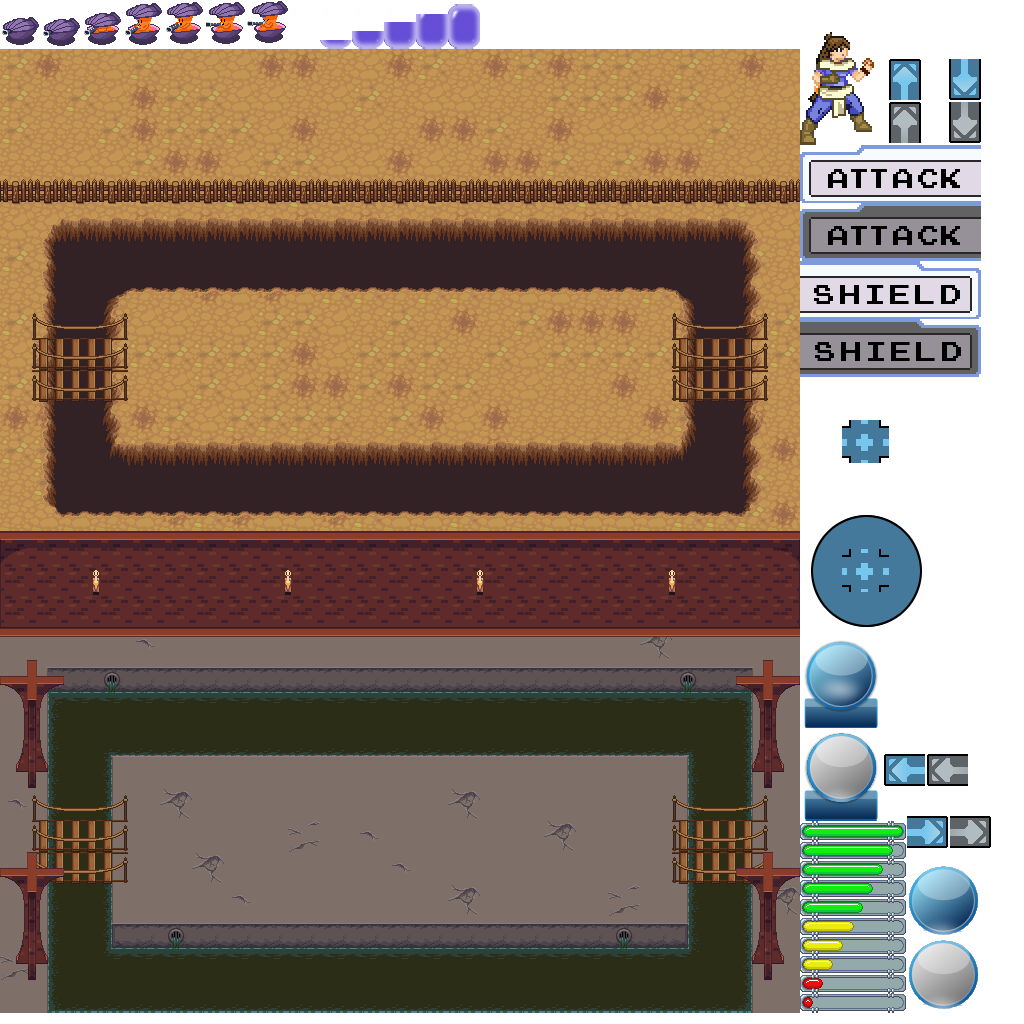
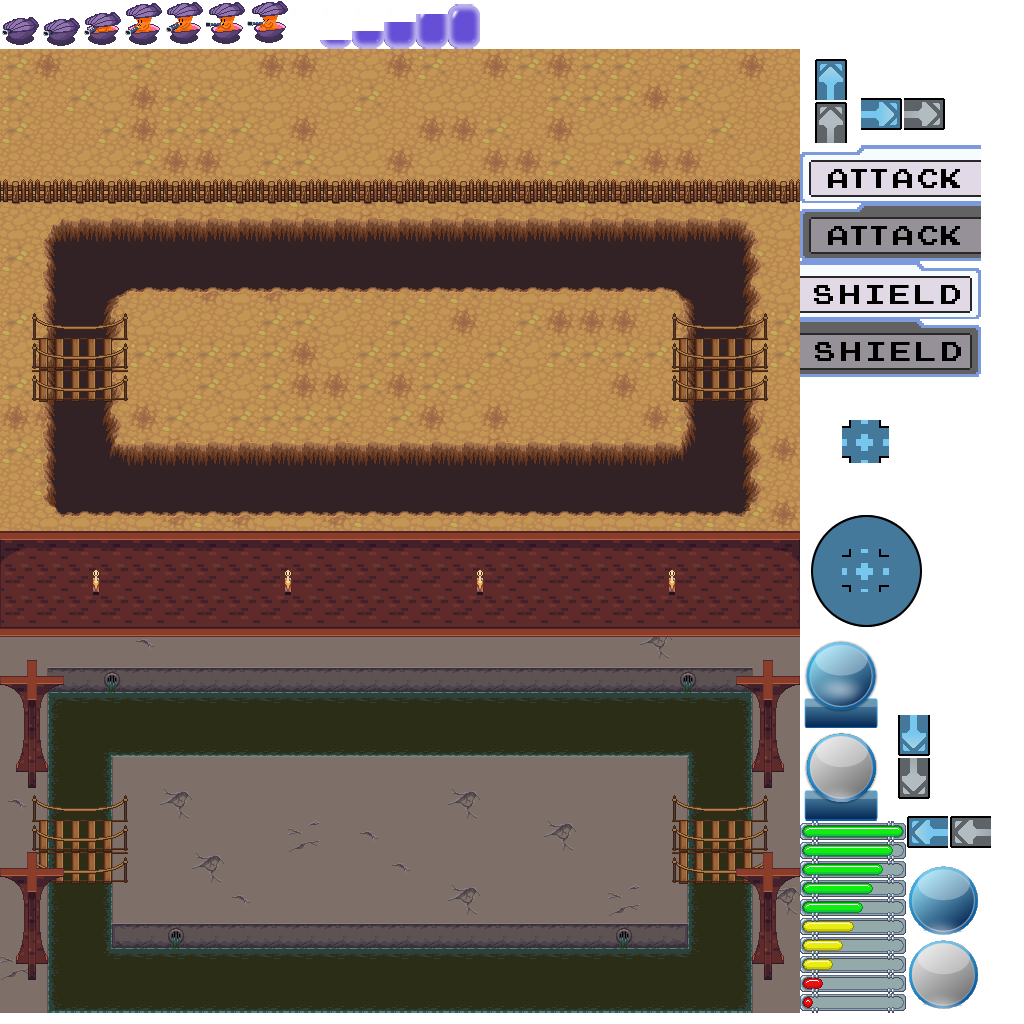
You can now hold your shield and it will drain your mana. Your character pose changes slightly

Changed region(s): [[0.7812, 0.0312, 0.9688, 0.1562], [0.8438, 0.6875, 0.9688, 0.8438]]

diff --git a/Unsealed/src/net/k3rnel/unsealed/objects/BattleHUD.java b/Unsealed/src/net/k3rnel/unsealed/objects/BattleHUD.java
@@ -1,9 +1,6 @@
 package net.k3rnel.unsealed.objects;
 
-import java.util.Arrays;
 import java.util.Random;
-
-import net.k3rnel.unsealed.Unsealed;
 
 import com.badlogic.gdx.Gdx;
 import com.badlogic.gdx.graphics.g2d.Animation;
@@ -16,7 +13,6 @@ import com.badlogic.gdx.scenes.scene2d.Stage;
 import com.badlogic.gdx.scenes.scene2d.ui.Button;
 import com.badlogic.gdx.scenes.scene2d.ui.Image;
 import com.badlogic.gdx.scenes.scene2d.ui.ImageButton;
-import com.badlogic.gdx.scenes.scene2d.utils.ClickListener;
 import com.badlogic.gdx.scenes.scene2d.utils.PressedListener;
 import com.badlogic.gdx.utils.Timer;
 import com.badlogic.gdx.utils.Timer.Task;
@@ -87,11 +83,16 @@ public class BattleHUD extends Stage {
         grid = new boolean[3][6];
 
         hero = new BattleCharacter();
-        Animation waiting = new Animation(1f, atlas.findRegion("battle/lidia"));
+        atlasRegion = atlas.findRegion("battle/lidia");
+        TextureRegion[][] lidia = atlasRegion.split(112,134);
+        Animation waiting = new Animation(1f, lidia[0][0]);
         waiting.setPlayMode(Animation.NORMAL);
         hero.animations.put("waiting", waiting);
+        Animation blocking = new Animation(1f,lidia[0][1]);
+        blocking.setPlayMode(Animation.NORMAL);
+        hero.animations.put("blocking",blocking);
         hero.setState(0);
-        hero.setPosition(230,150);
+        hero.setPosition(220,150);
         this.addActor(hero);
         grid[1][1] = true;
 
@@ -110,8 +111,14 @@ public class BattleHUD extends Stage {
             @Override
             public boolean touchDown(ActorEvent event, float x, float y, int pointer, int button) {
                  super.touchDown(event, x, y, pointer, button);
-                 buttonPress(4); 
+                 buttonPress(4,true); 
                  return true;
+            }
+            
+            @Override
+            public void touchUp(ActorEvent event, float x, float y, int pointer, int button) {
+                super.touchUp(event, x, y, pointer, button);
+                buttonPress(4,false); 
             }
         });
         this.addActor(leftTrigger);
@@ -124,7 +131,7 @@ public class BattleHUD extends Stage {
             @Override
             public boolean touchDown(ActorEvent event, float x, float y, int pointer, int button) {
                  super.touchDown(event, x, y, pointer, button);
-                 buttonPress(5); 
+                 buttonPress(5,true); 
                  return true;
             }
         });
@@ -170,7 +177,7 @@ public class BattleHUD extends Stage {
             @Override
             public boolean touchDown(ActorEvent event, float x, float y, int pointer, int button) {
                  super.touchDown(event, x, y, pointer, button);
-                 buttonPress(1); 
+                 buttonPress(1,true); 
                  return true;
             }
         });
@@ -184,7 +191,7 @@ public class BattleHUD extends Stage {
             @Override
             public boolean touchDown(ActorEvent event, float x, float y, int pointer, int button) {
                  super.touchDown(event, x, y, pointer, button);
-                 buttonPress(0); 
+                 buttonPress(0,true); 
                  return true;
             }
         });
@@ -198,7 +205,7 @@ public class BattleHUD extends Stage {
             @Override
             public boolean touchDown(ActorEvent event, float x, float y, int pointer, int button) {
                  super.touchDown(event, x, y, pointer, button);
-                 buttonPress(2); 
+                 buttonPress(2,true); 
                  return true;
             }
         });
@@ -212,7 +219,7 @@ public class BattleHUD extends Stage {
             @Override
             public boolean touchDown(ActorEvent event, float x, float y, int pointer, int button) {
                  super.touchDown(event, x, y, pointer, button);
-                 buttonPress(3); 
+                 buttonPress(3,true); 
                  return true;
             }
         });
@@ -255,7 +262,12 @@ public class BattleHUD extends Stage {
             
             @Override
             public void run() {
-                if(hero.getMana()<30)
+                if(hero.getState()==3){
+                    if(hero.getMana()>0)
+                        hero.setMana(hero.getMana()-2);
+                    else
+                        hero.setState(0);
+                }else if(hero.getMana()<30)
                     hero.setMana(hero.getMana()+1);
                 
             }
@@ -265,10 +277,8 @@ public class BattleHUD extends Stage {
     @Override
     public void draw() {
         super.draw();
-        
         int fillSize = hero.getMana()%5;
         int manaBars = hero.getMana()/5;
-        Gdx.app.log(Unsealed.LOG, "Mana: "+hero.getMana()+"/"+manaBars+"/"+fillSize);
         switch(manaBars){
             case 0:
                 manasphere1.setDrawable(new Image(manasphere[0][fillSize]).getDrawable());
@@ -340,7 +350,7 @@ public class BattleHUD extends Stage {
      * 4 = shield, 5 = attack
      * @param direction
      */
-    public void buttonPress(int button){
+    public void buttonPress(int button,boolean pressed){
         switch(button){
             case 0:{ // Up
                 if((hero.getGridY()-1>-1))
@@ -384,7 +394,14 @@ public class BattleHUD extends Stage {
                 break;
             }
             case 4:{ // Shield
-               
+                if(pressed){
+                   if(hero.getState()!=3){
+                        hero.setState(3);
+                        hero.setMana(hero.getMana()-2);
+                    }
+                }else{
+                    hero.setState(0);
+                }
                 break;
             }
             case 5:{ // Attack

diff --git a/Unsealed/src/net/k3rnel/unsealed/screens/BattleScreen.java b/Unsealed/src/net/k3rnel/unsealed/screens/BattleScreen.java
@@ -76,21 +76,24 @@ public class BattleScreen extends AbstractScreen {
     
     
     
+    
     @Override
     public boolean keyDown(int keycode) {
-        
         switch(keycode) {
             case Input.Keys.RIGHT:
-                hud.buttonPress(3);
+                hud.buttonPress(3,true);
                 return true;
             case Input.Keys.LEFT:
-                hud.buttonPress(2);
+                hud.buttonPress(2,true);
                 return true;
             case Input.Keys.UP:
-                hud.buttonPress(0);
+                hud.buttonPress(0,true);
                 return true;
             case Input.Keys.DOWN:
-                hud.buttonPress(1);
+                hud.buttonPress(1,true);
+                return true;
+            case Input.Keys.U:
+                hud.buttonPress(4,true);
                 return true;
         }
         return false;
@@ -98,6 +101,9 @@ public class BattleScreen extends AbstractScreen {
     @Override
     public boolean keyUp(int keycode) {
         switch(keycode) {
+            case Input.Keys.U:
+                hud.buttonPress(4,false);
+                return true;
             case Input.Keys.BACK:
                 game.setScreen(new MenuScreen(game));
                 return true;

diff --git a/Unsealed/src/net/k3rnel/unsealed/objects/BattleCharacter.java b/Unsealed/src/net/k3rnel/unsealed/objects/BattleCharacter.java
@@ -14,6 +14,7 @@ public class BattleCharacter extends Actor {
     public static final int stateIdle = 0;
     public static final int stateAttacking = 1;
     public static final int stateCharging = 2;
+    public static final int stateBlocking = 3;
 
     public final HashMap<String, Animation> animations;
     private Animation currentAnimation;
@@ -70,6 +71,9 @@ public class BattleCharacter extends Actor {
                 break;
             case stateCharging:
                 currentAnimation = animations.get("charging");
+                break;
+            case stateBlocking:
+                currentAnimation = animations.get("blocking");
                 break;
         }
     }
